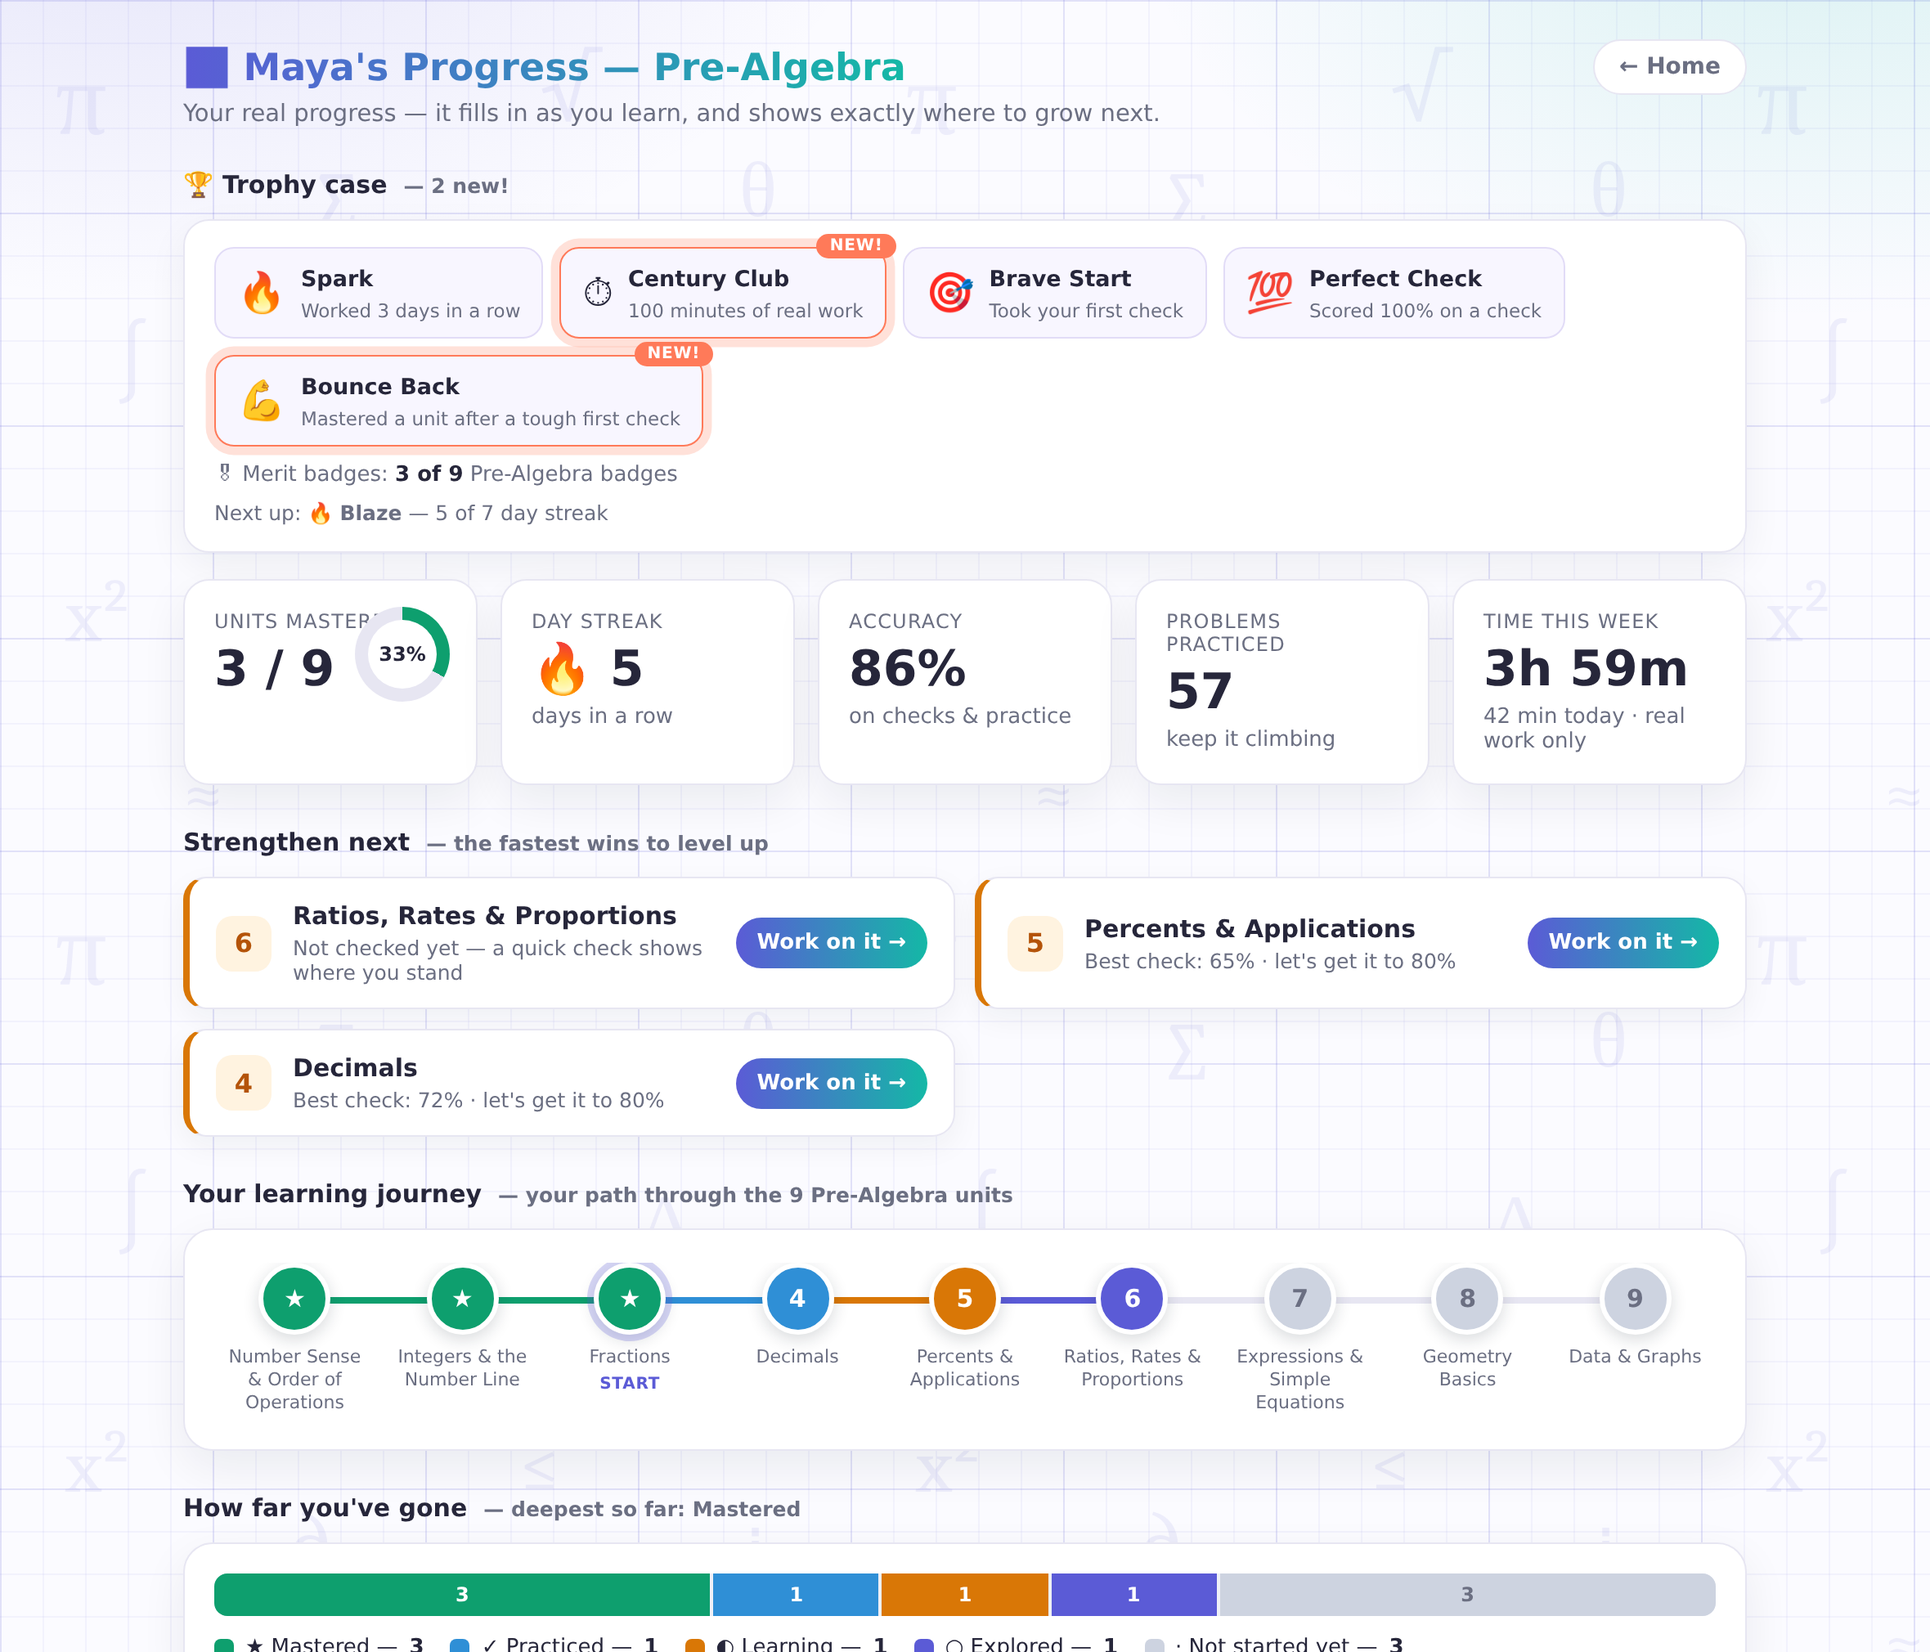
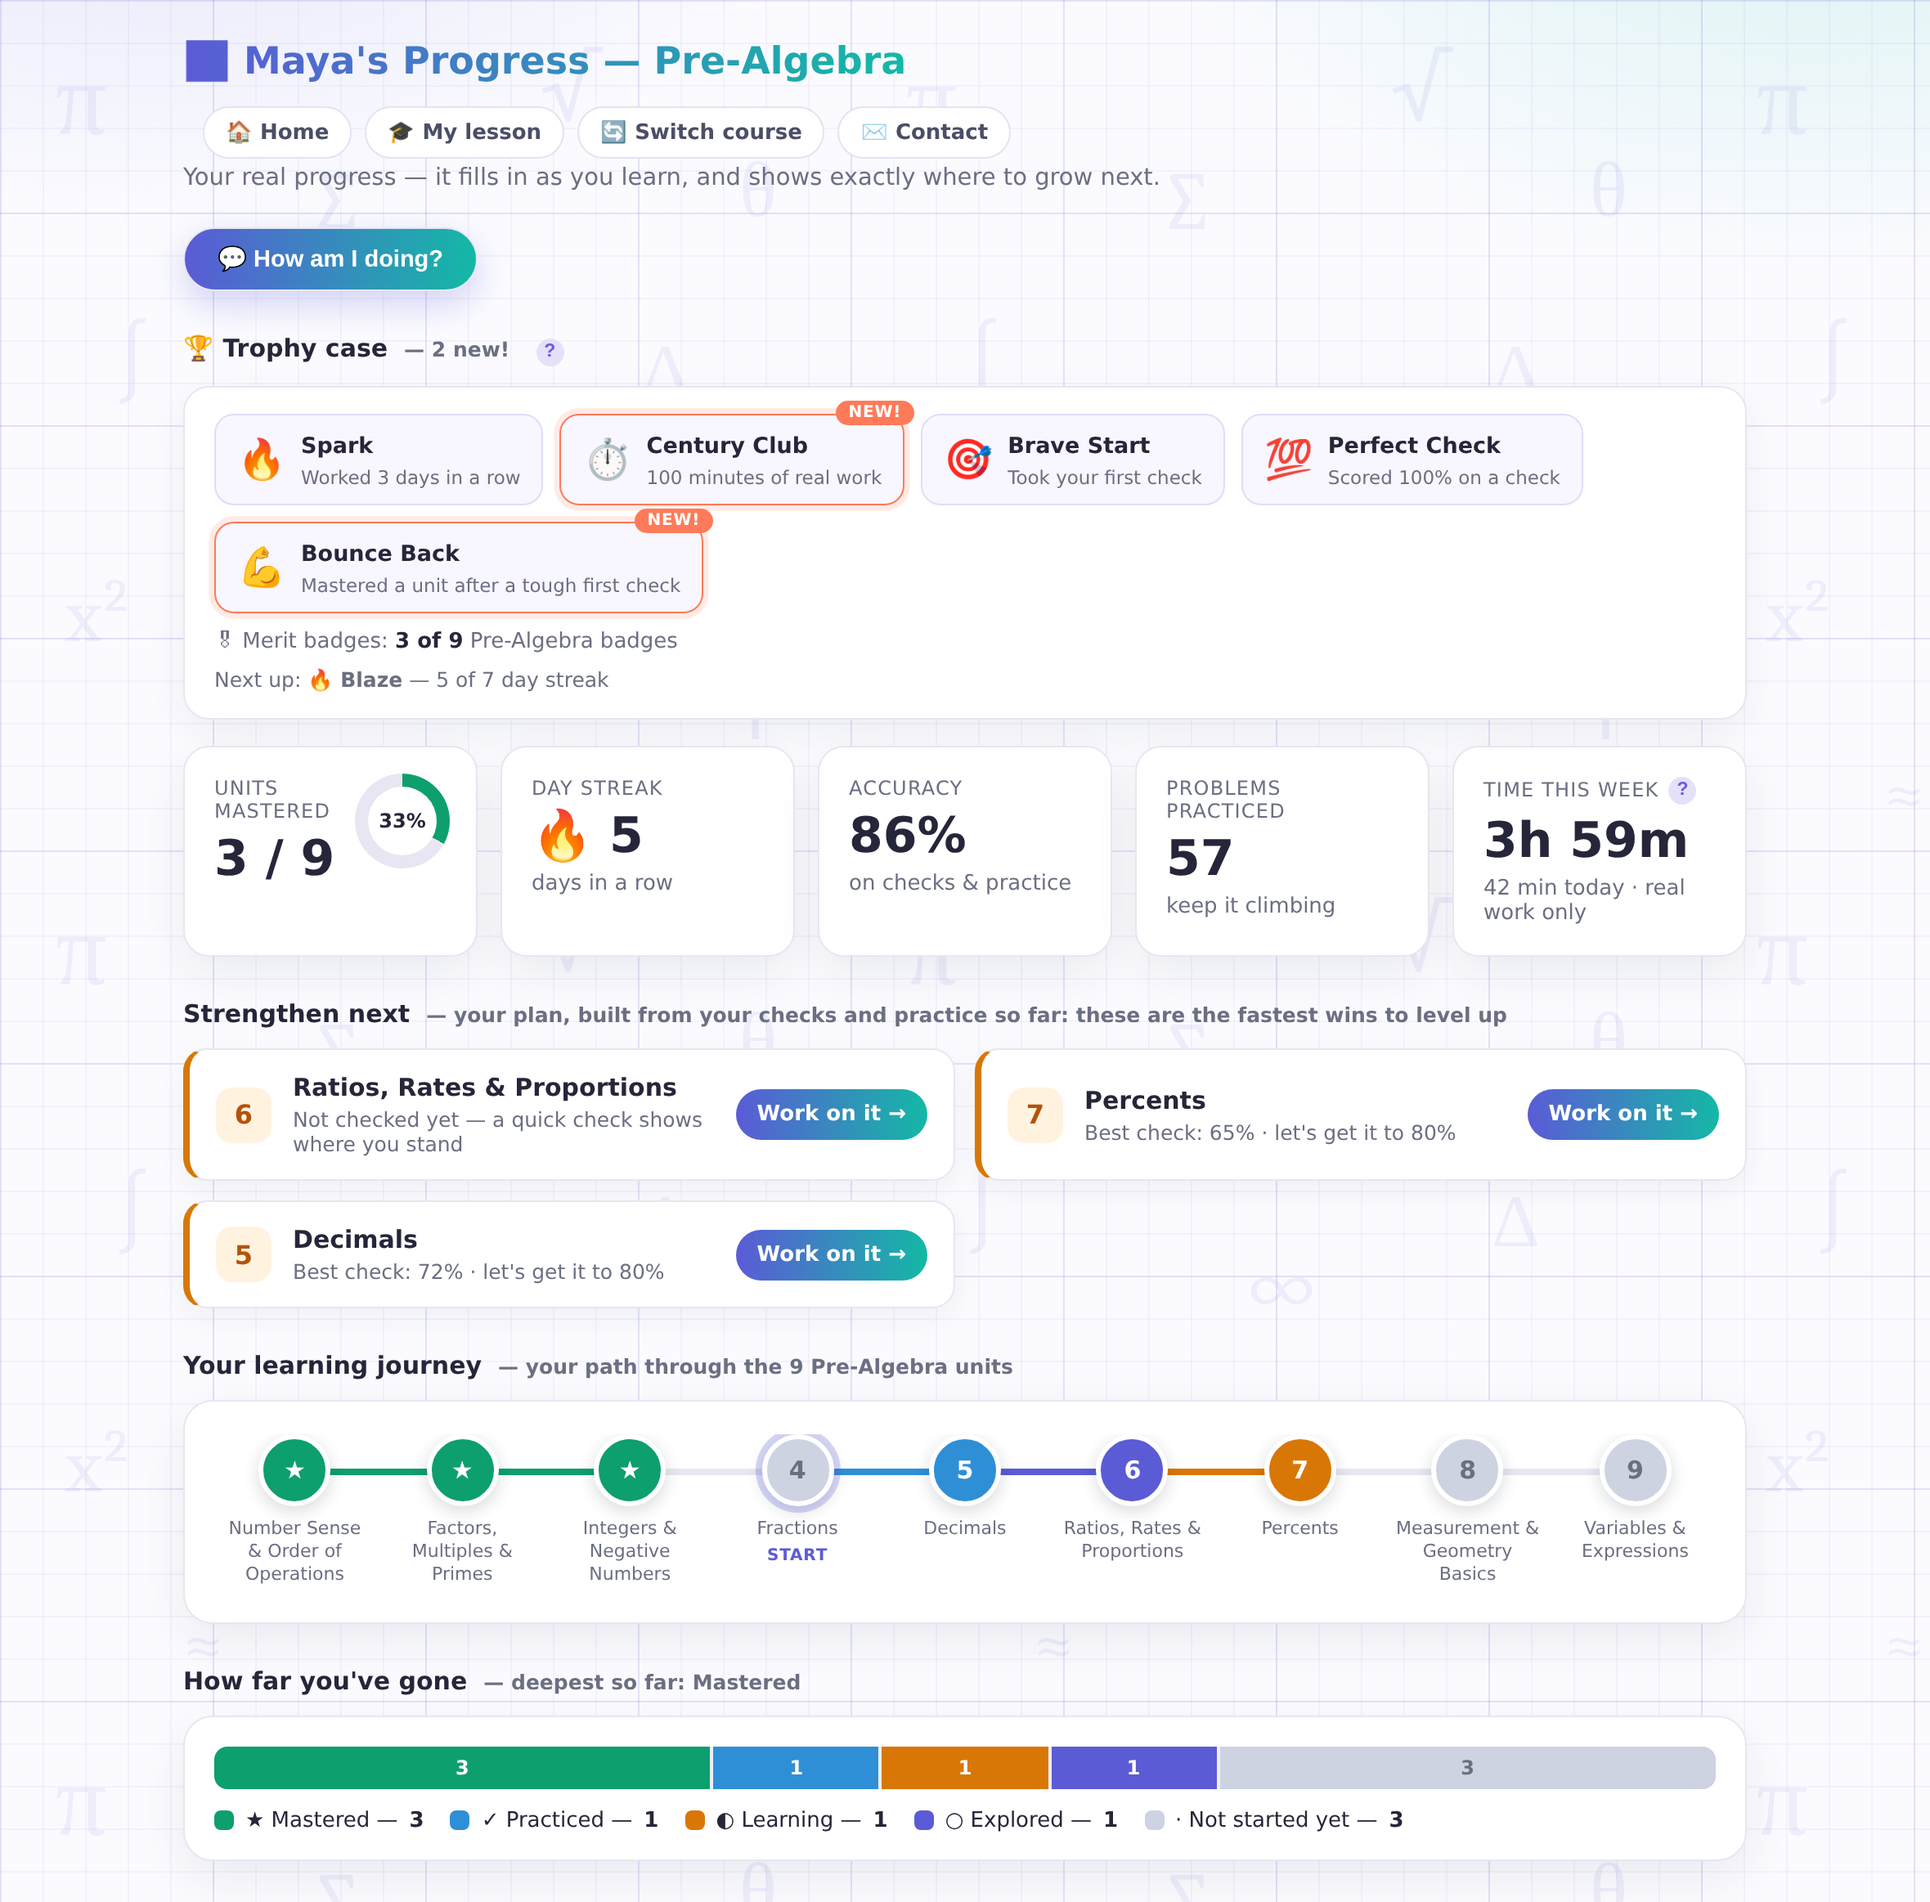
d

diff --git a/static/dashboard.html b/static/dashboard.html
@@ -4,6 +4,14 @@
   dashboard.html  --  Math Tutor MVP  --  Hyperion Shift LLC
   -----------------------------------------------------------------------------
   CHANGE NOTES (keep newest at top):
+    2026-08-03  TITLE WRAP FIX: the app-nav pills share the top bar, and at desktop widths they
+                squeezed the page title into breaking mid-word ("...Pre-/Algebra"). The title now
+                stays on one line and the pills wrap below it instead (>=761px only; phones keep
+                the old behavior so long course names can't overflow).
+    2026-08-03  RING/LABEL OVERLAP FIX: the KPI donut (the 33% ring) is absolutely positioned in
+                the tile's top-right corner and was covering the end of the "UNITS MASTERED" label
+                at common widths -- visible in every product screenshot as "UNITS MASTERE...". Tiles
+                that contain a ring now pad the label away from it (pure CSS, one rule).
   - 2026-08-03  REBRAND (Jim): all visible "MyTutor" text is now "Mr. Cadabra's Classroom" (titles, meta/OG, nav brand, body copy, footers). "Hyperion Shift LLC" remains ONLY on the legal pages (privacy/terms), where the legal entity must be named. Historical change notes untouched.
   - 2026-08-03  ANALYTICS: added Plausible (privacy-friendly, cookieless) shared include in <head>. Pure add-on; nothing else changed.
     2026-08-01  "HOW AM I DOING?" (Jim: honest narrative assessments). New button under the
@@ -118,7 +126,12 @@
         #f5f5fc;
     }
     .wrap { max-width: 1000px; margin: 0 auto; padding: 24px 22px 64px; }
-    .top { display: flex; align-items: center; gap: 14px; margin-bottom: 4px; }
+    .top { display: flex; align-items: center; gap: 14px; margin-bottom: 4px; flex-wrap: wrap; }
+    /* 2026-08-03: with four nav pills sharing this bar, the TITLE was the thing that gave way --
+       every desktop user saw "Maya's Progress — Pre-/Algebra" broken mid-word. Keep the title
+       whole and let the pills wrap to the next line instead. (Phones keep the old wrapping so a
+       long course name can never overflow a narrow screen.) */
+    @media (min-width: 761px) { .top .title { white-space: nowrap; } }
     .top .title { font-size: 23px; font-weight: 800;
       background: linear-gradient(90deg, var(--accent), var(--accent2)); -webkit-background-clip: text;
       background-clip: text; -webkit-text-fill-color: transparent; }
@@ -185,6 +198,11 @@
     .tile .small { color: var(--muted); font-size: 13px; margin-top: 6px; }
     .ring { --p: 0; width: 58px; height: 58px; border-radius: 50%; position: absolute; top: 16px; right: 16px;
       background: conic-gradient(var(--st-mastered) calc(var(--p) * 3.6deg), #e7e6f2 0); display: grid; place-items: center; }
+    /* 2026-08-03: the ring floats over the tile's top-right corner, and at common widths it sat ON
+       TOP of the "UNITS MASTERED" label (every product screenshot shows "UNITS MASTERE…"). Give the
+       label clearance in any tile that has a ring. (:has is ignored by very old browsers — they
+       just keep the old overlap, nothing breaks.) */
+    .tile:has(.ring) .lbl { padding-right: 62px; }
     .ring::before { content: ""; width: 42px; height: 42px; border-radius: 50%; background: var(--panel); position: absolute; }
     .ring span { position: relative; font-size: 12px; font-weight: 800; color: var(--ink); }
 

diff --git a/static/landing.html b/static/landing.html
@@ -1,5 +1,8 @@
 <!DOCTYPE html>
 <!--
+  - 2026-08-03  SCREENSHOT REFRESH: shots/lesson.png was re-captured from the CURRENT demo (the old
+    image still said "MyTutor" -- a rebrand leak -- and showed a retired layout). Alt text updated
+    to match (math keyboard, not tap buttons). Image swap + one alt line; nothing else touched.
   - 2026-08-02  NO-HUMAN-IMPLICATION REWORD (Jim: "A real tutor" implies a human). The WHY
     headline is now "Not a homework-answer machine. An AI trained to teach." and its subtitle
     says plainly it's a high-level AI trained to do what the best tutors do. Honest positioning:
@@ -445,7 +448,7 @@
   </div>
   <div class="grid g3" style="margin-top:30px">
     <div class="card" style="padding:14px">
-      <img src="/static/shots/lesson.png" alt="A Mr. Cadabra's Classroom lesson: Mr. Cadabra asks a question while the whiteboard shows 2x+3=11 solved step by step, with tappable answers below" style="width:100%;border-radius:10px;border:1px solid var(--line);display:block" />
+      <img src="/static/shots/lesson.png" alt="A Mr. Cadabra's Classroom lesson: Mr. Cadabra asks a question while the whiteboard shows 2x+3=11 solved step by step, with the math keyboard below for typing the next move" style="width:100%;border-radius:10px;border:1px solid var(--line);display:block" />
       <h3 style="margin-top:12px">The lesson</h3><p>He talks, the board draws each step, your student answers — it never runs ahead.</p>
     </div>
     <div class="card" style="padding:14px">

diff --git a/main.py b/main.py
@@ -2,6 +2,15 @@
 # main.py  --  Math Tutor MVP  --  Hyperion Shift LLC
 # -----------------------------------------------------------------------------
 # CHANGE NOTES (keep newest at top):
+#   2026-08-03  APP_BUILD -> "2026-08-03l-shots". PRODUCT-SCREENSHOT REFRESH + two dashboard CSS
+#               fixes (all static; bump is for deploy verification). Jim spotted the teachers-page
+#               heatmap image cut off at the bottom; an audit of ALL six product screenshots found:
+#               lesson.png still said "MyTutor" (it is the og:image for every page AND on the
+#               landing/students pages), and dashboard/dashboard-full/parent.png were each clipped
+#               mid-content. All five re-captured from the live pages (teacher.png was fixed
+#               earlier today). dashboard.html also gained two real fixes the shots exposed: the
+#               KPI ring no longer covers the "UNITS MASTERED" label, and the page title no longer
+#               breaks mid-word next to the nav pills. landing.html alt text updated to match.
 #   2026-08-03  APP_BUILD -> "2026-08-03k-ipad". iPAD/TABLET READINESS PASS -- all changes are in
 #               the static pages (no backend code changed; this bump exists so the deploy can be
 #               verified at /health). challenge.html + demo.html: audio was silent on iPads (audio
@@ -2537,7 +2546,7 @@ def get_placement(code: str, course: str = "algebra1"):
 # Bump this string whenever the backend changes. It's shown at /health so we can CONFIRM
 # Render actually redeployed the new code (if /health still shows an old build, the deploy
 # didn't happen -- which would explain why prompt/whiteboard changes aren't taking effect).
-APP_BUILD = "2026-08-03k-ipad"
+APP_BUILD = "2026-08-03l-shots"
 
 
 @app.get("/health")
